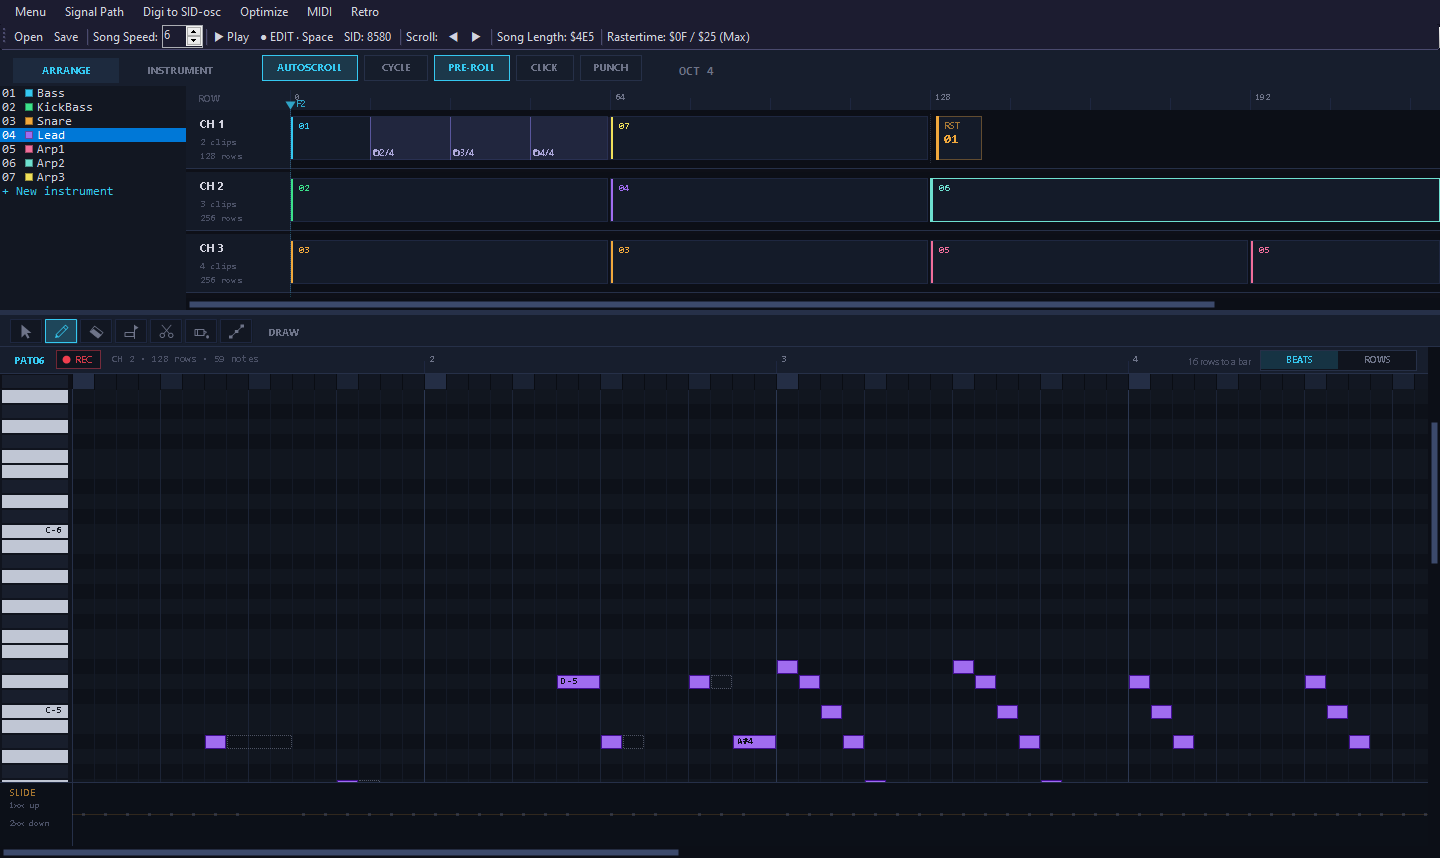
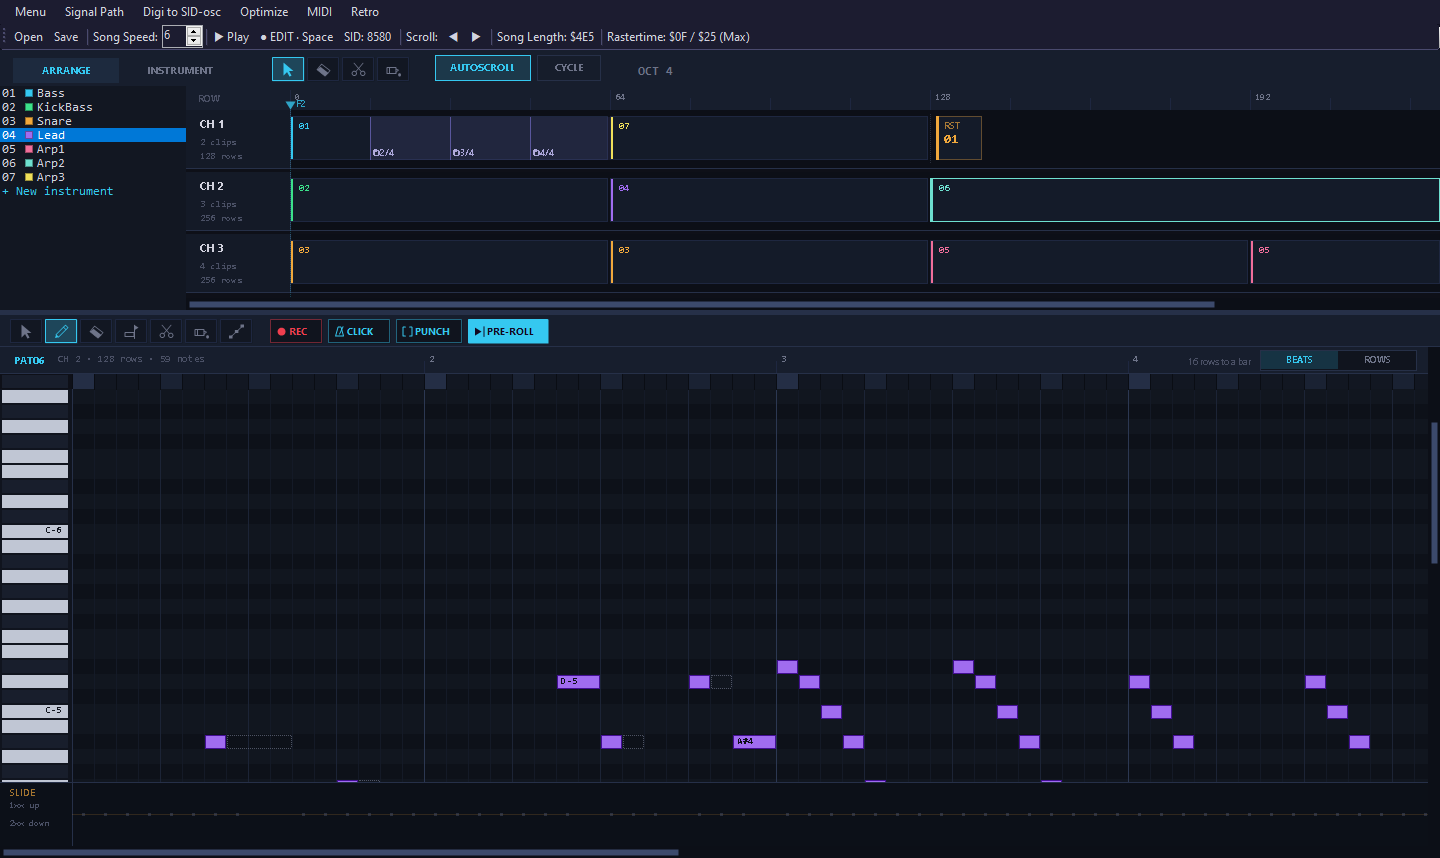
Editor version 1.5: the arrange tools and the new Import MIDI on the website

diff --git a/docs/index.html b/docs/index.html
@@ -15,7 +15,7 @@
 <main class="wrap">
   <section class="hero">
     <img src="logo.png" alt="MagSID logo">
-    <h1>MagSID Editor <span id="version">v1.4</span></h1>
+    <h1>MagSID Editor <span id="version">v1.5</span></h1>
     <p class="released">Release date: <time id="released" datetime="2026-10-16">2026-10-16</time></p>
     <p>A Windows tracker for Commodore 64 music. Write in a classic tracker grid or a DAW-style piano roll,
       hear it through reSID, and export a <code>.sid</code> that plays exactly the same on the real machine.</p>
@@ -33,13 +33,13 @@
   <h2 id="features">What it does</h2>
   <p class="lead">Two views of the same song, a player that fits in a few hundred bytes, and nothing else to install.</p>
   <div class="grid">
-    <div class="card"><div class="i">🎹</div><h3>Retro and DAW</h3><p>A classic tracker grid for typing fast, and an arrangement with a piano roll for seeing the whole song. Both edit the same song at once.</p></div>
+    <div class="card"><div class="i">🎹</div><h3>Retro and DAW</h3><p>A classic tracker grid for typing fast, and an arrangement with a piano roll for seeing the whole song - drag clips between channels, split, glue and erase them. Both edit the same song at once.</p></div>
     <div class="card"><div class="i">⏺</div><h3>Record from MIDI</h3><p>Play into the piano roll from a MIDI keyboard, with a one-bar pre-roll, an optional click, and punch-in between the locators. Hold a chord to make an arpeggio.</p></div>
     <div class="card"><div class="i">🔊</div><h3>The real SID sound</h3><p>Every note is played through reSID, the reference SID emulation, on a 6581 or an 8580. The waveform strip shows what the chip actually outputs.</p></div>
     <div class="card"><div class="i">💾</div><h3>Tiny player</h3><p>The C64 player is written in 6502 assembly and only carries the effects a song uses. A finished song, player included, is around 750-1250 bytes.</p></div>
     <div class="card"><div class="i">🎯</div><h3>Exact export</h3><p>Export to <code>.sid</code> at any load address. The editor builds the file itself, byte for byte what the assembler would make - no assembler or emulator needed.</p></div>
     <div class="card"><div class="i">📼</div><h3>Built-in SID player</h3><p>Open any <code>.sid</code> to play it, with a spectrum and a scope per voice, and save it as WAV, MP3 or FLAC.</p></div>
-    <div class="card"><div class="i">🎼</div><h3>Import MIDI</h3><p>Turn a .mid file into a song the C64 way: bass and drums on channel 1, the chords as arpeggios, the lead on top - and each General MIDI sound mapped to an instrument from the demo songs.</p></div>
+    <div class="card"><div class="i">🎼</div><h3>Import MIDI</h3><p>Turn a .mid file into a song the C64 way: bass and drums on channel 1, the chords read bar by bar as arpeggios, the lead on top - and each General MIDI sound mapped to an instrument from the demo songs, or one picked from the sound bank.</p></div>
     <div class="card"><div class="i">🎛</div><h3>Sound bank</h3><p>25 sounds from the demo songs - instruments, drums, and arpeggios at three speeds. Click a card to hear it, double-click to add it. Save any instrument as a small JSON file to build up your own.</p></div>
   </div>
 
@@ -136,7 +136,7 @@
 
 <footer><div class="wrap"><span>© 2026 Magnar Harestad · Censor Design</span><a href="https://github.com/MagnarHarestad/MagSID">Source on GitHub</a><a href="https://github.com/MagnarHarestad/MagSID/releases">Releases</a><a href="https://github.com/MagnarHarestad/MagSID/issues">Report a problem</a></div></footer>
 <script>
-// The version and release date under the logo follow the latest release; v1.4 and its date stand
+// The version and release date under the logo follow the latest release; v1.5 and its date stand
 // until GitHub answers, or if it does not.
 fetch('https://api.github.com/repos/MagnarHarestad/MagSID/releases/latest')
   .then(response => response.ok ? response.json() : null)

diff --git a/README.md b/README.md
@@ -42,7 +42,8 @@ Settings — MIDI device, knob bindings, view preferences — are kept in
 
 - Songs are plain-text `.s` files. Open one from `SongData` with **Menu → Open** (F10).
 - There are two views of the same song: **Retro**, a classic tracker grid, and **DAW**, an
-  arrangement with a piano roll and an instrument page. The menu bar switches between them.
+  arrangement with a piano roll and an instrument page. The menu bar switches between them. In the
+  DAW's arrangement, the tools next to the tabs drag clips between channels, erase, split and glue them.
 - F1 plays from the top, F2 from the cursor (in the DAW, from the project cursor), F4 stops. Space
   or F5 switches between Edit and Jam mode — **Menu → Swap Spacebar Behavior** gives Space the
   transport instead.
